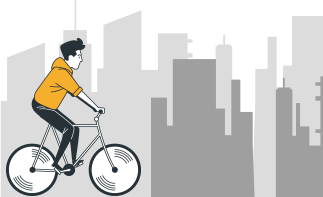
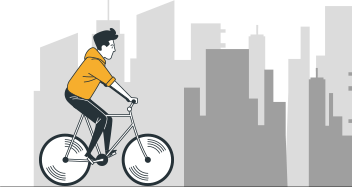
Правки

diff --git a/src/static/css/import/inner.scss b/src/static/css/import/inner.scss
@@ -422,14 +422,15 @@
     margin-bottom: 42px;
     @media (min-width: 1170px) {
         font-size: 24px;
+        margin-bottom: 62px;
     }
 }
 
 .buy-franchise__promocode legend {
     margin-bottom: 34px;
     line-height: 35px;
+    font-weight: 400;
     @media (min-width: 1170px) {
-        font-weight: 400;
         font-size: 18px;
         br {
             display: none;
@@ -440,7 +441,7 @@
 .promocode-column {
     @media (min-width: 1170px) {
         display: flex;
-        margin-bottom: 73px;
+        margin-bottom: 53px;
     }
 }
 
@@ -470,6 +471,7 @@
         font-size: 36px;
         line-height: 43px;
         max-width: 605px;
+        margin-bottom: 81px;
         img {
             margin-bottom: -13px;
             margin-left: 0;
@@ -1319,10 +1321,10 @@
         height: 341px;
         padding-top: 114px;
         background-image: url('../img/_cyclist.png');
-        background-position: right -190px bottom;
+        background-position: right -190px bottom -2px;
     }
     @media (min-width: 1920px) {
-        background-position: right 0px bottom 0px;
+        background-position: right -5px bottom -2px;
     }
 }
 
@@ -1331,7 +1333,7 @@
     line-height: 30px;
     color: #131313;
     span {
-        width: 25px;
+        width: 31px;
         height: 2px;
         background-color: #131313;
         vertical-align: middle;
@@ -1341,12 +1343,16 @@
     @media (min-width: 768px) {
         font-size: 24px;
         line-height: 36px;
+        span {
+            width: 52px;
+        }
     }
     @media (min-width: 1170px) {
         font-size: 36px;
-        line-height: 50px;
+        line-height: 53px;
+        margin-left: 11px;
         span {
-            width: 60px;
+            width: 54px;
             height: 3px;
         }
     }
@@ -1362,7 +1368,7 @@
     color: #131313;
     @media (min-width: 768px) {
         height: 680px;
-        margin-bottom: 360px;
+        margin-bottom: 275px;
         background-image: url('../img/city-bonus-middle.png');
         background-position: right bottom 105px;
         background-repeat: no-repeat;
@@ -1620,6 +1626,7 @@
     margin-bottom: 32px;
     @media (min-width: 768px) {
         margin-bottom: 54px;
+        width: 450px;
     }
     @media (min-width: 1170px) {
         font-size: 18px;
@@ -2131,7 +2138,6 @@
     }
     @media (min-width: 1170px) {
         width: 410px;
-        margin-bottom: 79px;
         font-size: 36px;
     }
 }
@@ -2184,7 +2190,7 @@
         line-height: 30px;
         width: 515px;
         margin-bottom: 72px;
-        padding-bottom: 54px;
+        padding-bottom: 47px;
         padding-left: 85px;
         &::before {
             top: 3px;
@@ -2423,8 +2429,8 @@
     }
     @media (min-width: 1170px) {
         position: relative;
-        margin-top: 70px;
-        width: 415px;
+        margin-top: 92px;
+        width: 431px;
     }
 }
 
@@ -2653,7 +2659,7 @@
 =========================================*/
 
 .perks {
-    padding: 76px 0;
+    padding: 110px 0;
     color: #131313;
     @media (min-width: 1170px) {
         padding: 171px 0 104px;
